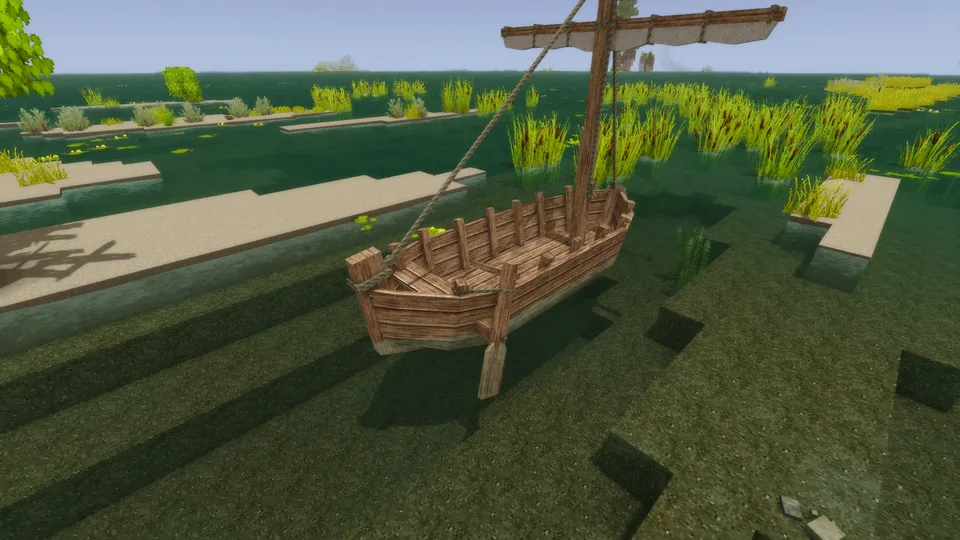
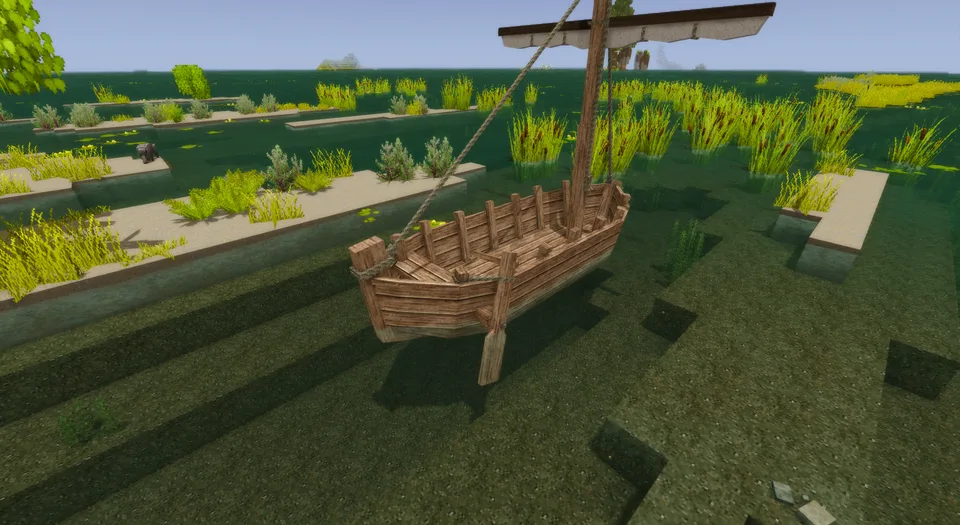
375 fix: the outrigger's and the sailboat's pictures retaken; the sailboat's mast and yard in her windage, yaw damped through the water, a luffing sail's friction, rig textures required
[claude-opus-5-5] on behalf of hoblin

diff --git a/RoughSeas/Wind/Sail.cs b/RoughSeas/Wind/Sail.cs
@@ -11,7 +11,7 @@ public sealed class Sail(SailPolar polar, IncidencePolar aback, Rig rig, double 
 {
     private const int Trims = 36;
     private const int Refinements = 3;
-    private const int Places = 3;
+    private const int TiedWithinDecimals = 3;
 
     // The crew trims anew only when the apparent wind moves this much: a bound on the work, not physics.
     private const double RetrimRadians = Math.PI / 180;
@@ -63,7 +63,7 @@ public sealed class Sail(SailPolar polar, IncidencePolar aback, Rig rig, double 
         }
 
         var (at, force) = rig.End.Aback(State, air) ? TakenAback(air, halfDensity)
-            : luffs ? Luffing()
+            : luffs ? Luffing(air, halfDensity)
             : Drawing(Force(State, air, halfDensity, fromBow), air);
         Load = rig.End.Loads(State, at, force);
         return Load.Points;
@@ -73,8 +73,8 @@ public sealed class Sail(SailPolar polar, IncidencePolar aback, Rig rig, double 
     {
         var force = Force(posed, air, halfDensity, fromBow).Force;
         var newtons = halfDensity * air.Speed * air.Speed * SquareMetres;
-        return (LeeOf(posed) > 0, !rig.End.Aback(posed, air), Math.Round(rig.End.Ahead * force.Along / newtons, Places),
-            -Math.Round(Math.Abs(force.Across) / newtons, Places), Flow(rig.End.Belly(posed), force));
+        return (LeeOf(posed) > 0, !rig.End.Aback(posed, air), Math.Round(rig.End.Ahead * force.Along / newtons, TiedWithinDecimals),
+            -Math.Round(Math.Abs(force.Across) / newtons, TiedWithinDecimals), Flow(rig.End.Belly(posed), force));
     }
 
     private (HullPoint At, HullPoint Force) Pressing(RigState posed, Airflow air, double halfDensity, double fromBow)
@@ -100,10 +100,10 @@ public sealed class Sail(SailPolar polar, IncidencePolar aback, Rig rig, double 
         return (State.Centre(Set, Fill), pushed.Force);
     }
 
-    private (HullPoint At, HullPoint Force) Luffing()
+    private (HullPoint At, HullPoint Force) Luffing(Airflow air, double halfDensity)
     {
         (Aback, Pressure, Fill) = (false, 0, 0);
-        return (State.Centre(Set, 0), default);
+        return (State.Centre(Set, 0), halfDensity * air.Speed * aback.Friction * SquareMetres * new HullPoint(air.Along, 0, air.Across));
     }
 
     private bool Retrim((double Heading, double Pressure, (double Reach, double Span) Set, int Tacked) trim) =>

diff --git a/RoughSeas/Storms/EntityBehaviorCurrentDrift.cs b/RoughSeas/Storms/EntityBehaviorCurrentDrift.cs
@@ -182,7 +182,7 @@ public class EntityBehaviorCurrentDrift(Entity entity) : EntityBehavior(entity)
             : drag != null ? set.Settle(drag, on, pos.Yaw, deltaTime, blown)
             : set.Relax(on, pos.Yaw, 1 - WaterDrag.Kept(physics?.WaterDragValue ?? 1, deltaTime), deltaTime, blown);
         var w = water = new Water(on, drag, wash, wind);
-        if (ours) Spin(wind.NewtonMetres, drag, on.WayAlong, deltaTime);
+        if (ours) Spin(wind.NewtonMetres, drag, on, deltaTime);
 
         if (client == null) Sync(deltaTime);
         else ReportOwn(deltaTime);
@@ -248,12 +248,12 @@ public class EntityBehaviorCurrentDrift(Entity entity) : EntityBehavior(entity)
         set.Pivot(0, 0);
     }
 
-    private void Spin(double newtonMetres, HullDrag? drag, double wayAlong, float deltaTime)
+    private void Spin(double newtonMetres, HullDrag? drag, WaterOnHull on, float deltaTime)
     {
         if (heldAtBow || drag == null || hullBoxes == null || newtonMetres == 0 && spinPerSecond == 0) return;
 
-        var (along, _) = HullShape.ToHull(set.Own.X, set.Own.Z, entity.Pos.Yaw);
-        spinPerSecond += (newtonMetres + drag.Turning(spinPerSecond, wayAlong + along)) / drag.TurningKgSquareMetres * deltaTime;
+        var (along, _) = HullShape.ToHull(set.Own.X - on.CurrentX, set.Own.Z - on.CurrentZ, entity.Pos.Yaw);
+        spinPerSecond += (newtonMetres + drag.Turning(spinPerSecond, on.WayAlong + along)) / drag.TurningKgSquareMetres * deltaTime;
         var turned = (float)GameMath.Mod(entity.Pos.Yaw + spinPerSecond * deltaTime, GameMath.TWOPI);
         if (hullBoxes.AdjustCollisionBoxesToYaw(deltaTime, true, turned)) entity.Pos.Yaw = turned;
         else spinPerSecond = 0;

diff --git a/RoughSeas/Wind/EntityBehaviorWindage.cs b/RoughSeas/Wind/EntityBehaviorWindage.cs
@@ -43,7 +43,8 @@ public class EntityBehaviorWindage(Entity entity) : EntityBehavior(entity), IWin
         body = VesselInWind.From(attributes, wind.Config, wind.Polar);
         drawnGroups = attributes["drawn"].AsArray<string>()?.OfType<string>().ToArray() ?? [];
         steps = attributes["steps"].AsArray<string>()?.OfType<string>().ToArray() ?? [];
-        textures = attributes["textures"].AsObject<RigTextures?>(null);
+        textures = attributes["textures"].AsObject<RigTextures?>(null)
+            ?? (Sail == null ? null : throw new InvalidOperationException($"{entity.Code}'s sail names no rig textures: roughseas:windage needs textures with a sail"));
     }
 
     public override void AfterInitialized(bool onFirstSpawn)

diff --git a/RoughSeas/Wind/RigRenderer.cs b/RoughSeas/Wind/RigRenderer.cs
@@ -15,7 +15,7 @@ public sealed class RigRenderer : IRenderer, IRigCanvas
     private const int Reaches = 10;
     private const int Spans = 8;
     private const double OriginMetres = 0.5;
-    /// <summary>A shunt took under a minute (Hornell 1936, pp. 318, 370); her build's sixtieth of real work time.</summary>
+    /// <summary>A shunt took under a minute (Hornell 1936, pp. 318, 370); her work takes a sixtieth of real time, as her build does.</summary>
     private const double ShuntMilliseconds = 1000;
     private static readonly (float U, float V)[] Tile = [(0, 0), (1, 0), (1, 1), (0, 1)];
     private static readonly (int Facing, int[] Order)[] Sides = [(1, [0, 1, 2, 0, 2, 3]), (-1, [0, 2, 1, 0, 3, 2])];

diff --git a/RoughSeas/Wind/SailForm.cs b/RoughSeas/Wind/SailForm.cs
@@ -2,7 +2,7 @@ namespace RoughSeas.Wind;
 
 /// <summary>
 /// The one shape of a cloth between its four corners: physics asks it for the centre of effort, the renderer for every
-/// vertex. Reach runs from luff to leech, span from foot to head; a reef rolls the cloth down from the foot.
+/// vertex. Reach runs from luff to leech, span from foot to head; a reef rolls the cloth up from the foot onto the boom.
 /// </summary>
 public sealed class SailForm
 {

diff --git a/bin/lib/hulls/sailboat.py b/bin/lib/hulls/sailboat.py
@@ -28,8 +28,8 @@ HALF_CLOTH = re.compile(r"[LR]Sail(Cen|Mid|Out)")
 SHEET = re.compile(r"ClewRope[LR]\d$")
 BUNT = re.compile(r"SailBund")
 BACKSTAY = re.compile(r"MastRope\d$")
-STANDING = re.compile(r"Hull|KeelBeam|Gunwhale|Mast$|MastORIGIN")
-FURLED = re.compile(r"SailFurled|Furl")
+STANDING = re.compile(r"Hull|KeelBeam|Gunwhale|Mast\d$|MastORIGIN")
+FURLED = re.compile(r"SailFurled|Furl|Spar[LR]\d$")
 STEP = 0.5
 
 

diff --git a/RoughSeas/Wind/SailPolar.cs b/RoughSeas/Wind/SailPolar.cs
@@ -59,6 +59,8 @@ public sealed class IncidencePolar : SailPolar
         return (lift * sin - drag * cos, lift * cos + drag * sin);
     }
 
+    public double Friction => trims[0].Drag;
+
     public double Pressing(double incidence)
     {
         var (lift, drag) = LiftAndDrag(Math.Clamp(Math.Abs(incidence), 0, Math.PI / 2));

diff --git a/docs/wiki/The-Science-of-the-Hull.md b/docs/wiki/The-Science-of-the-Hull.md
@@ -40,7 +40,7 @@ The wind pushes a vessel as the water does: one more force in the sum that moves
 - **The wind a sail feels is apparent:** the wind at its height less the vessel's own velocity over the ground. A canoe running at 3 m/s before a 9 m/s wind feels 6 m/s; reaching across it, the apparent wind swings ahead and grows.
 - **Windage.** What stands above the water, hull and furled rig, is a bluff body (with the sail set, less the spars and cloth the sail now carries): drag ½ ρ C_d A u |u| across its side area and along its front area, at their centre, with air at 1.225 kg/m³ (the International Standard Atmosphere at 15 °C) and C_d 1.28, a flat plate across the wind (NASA Glenn). It only pushes downwind.
 - **A set sail is a wing.** Its force is ½ ρ V_a² S times a drive coefficient along the hull and a side coefficient across it, S its area and V_a the apparent wind, both coefficients read at the angle the apparent wind comes from, the sail trimmed to that angle. The windage of the hull and rig pushes on beside it.
-  - **The crab claw** takes Marchaj's wind-tunnel tests of a Polynesian crab claw, heeled 10° at 18 knots (AYRS 111, *Rig Efficiency*, Fig. 23, checked against the total force of Fig. 6): drive 1.46 and side 0.87 with the wind abeam, side force highest at 50° (1.48), drive highest at 120° to 130° (1.58), the force leaning to windward past 120°. Below 20° it luffs and lifts nothing, and the windage pushes again. Marchaj found it "only average closehauled, but outstanding when the apparent wind is between 50° and 150°".
+  - **The crab claw** takes Marchaj's wind-tunnel tests of a Polynesian crab claw, heeled 10° at 18 knots (AYRS 111, *Rig Efficiency*, Fig. 23, checked against the total force of Fig. 6): drive 1.46 and side 0.87 with the wind abeam, side force highest at 50° (1.48), drive highest at 120° to 130° (1.58), the force leaning to windward past 120°. Below 20° it luffs and lifts nothing; flogging, it keeps the drag the square sail measured edge-on, 0.15 along the wind. Marchaj found it "only average closehauled, but outstanding when the apparent wind is between 50° and 150°".
   - **The square sail** takes Nomoto's tunnel tests of a single square sail, as Palmer redraws them (*Windward Sailing Capabilities of Ancient Vessels*, IJNA 38(2), 2009, Fig. 10): lift C_L and drag C_D over its trims, from 0.69 and 0.25 to 0 and 1.14; its first trims match the same sail's tunnel data of Masuyama, Nomoto et al. (MARSIM 2003, Fig. 13). Cloth carries pressure only normal to itself, plus friction along the wind, so each pair stands at the incidence α = atan((C_D − 0.15) / C_L), 8° to 90°, where 0.15 is the friction drag Masuyama et al. add to the pressure forces to meet the tunnel's. Edge-on to the wind the sail keeps its friction alone. At each heading β the yard is braced to the turn its stays allow that drives most, C_L sin β − C_D cos β, with C_L cos β + C_D sin β across, both read at the incidence that turn gives. So close-hauled, with the yard braced as far round as it goes, the sail draws only what that incidence gives.
   - **Taken aback**, the wind on its wrong face, a sail is pressed along its normal n by ½ ρ V_a² S C_N, C_N the pressure the square sail's measurements give at the incidence the wind meets that face, √(C_L² + (C_D − 0.15)²): the only soft sail measured over its incidences, and the closest analogue for any sail aback. On the same sail caught aback head to wind it gives about −1.0 of thrust, where Masuyama et al. measured about −0.9 (Fig. 15). The crab claw is aback when the wind comes over its lee side and presses it onto the mast; the square sail when the wind strikes its fore face at every turn its stays allow, as head to wind.
 - **The sail's shape** is one function of where it is held, how much is set, its camber and how full the wind blows it, which the physics reads for its centre of effort and the game draws, every point of the cloth, in the vessel's own frame. Its depth is 12% of its chord when full, as Marchaj's tunnel sails were cut, a parabola across it. It fills as the wind's pressure p outweighs its cloth: depth p / (p + w g), the cloth w 0.61 kg/m², as experimental flax sails weigh 500 to 720 g/m² (Propylaeum, Heidelberg). With the wind abeam, the outrigger's sail stands two fifths full at 2 m/s of apparent wind and nearly full at 6 m/s.

diff --git a/docs/wiki/The-Science-of-a-Body-in-the-Water.md b/docs/wiki/The-Science-of-a-Body-in-the-Water.md
@@ -10,7 +10,7 @@ A hull moves by the sum of the forces on it, over its mass and the water it drag
 (m + A) dr/dt = −(m + A) (s·∇)u − D(s) + D(w) + T + F_wind
 ```
 
-`−(s·∇)u` is the difference between the water's acceleration and the change of `u` along the hull's own path: nothing for a hull lying with the water, and on a wave's front face, where the water ahead runs slower than behind, a push down the face for a hull running with the wave. Near the wave's speed, `s ≈ c`, it is `−c ∂u/∂x = ∂u/∂t`, which in shallow water is `−g ∂η/∂x`: gravity along the face, the force that carries a surfer. `D` is the hull's drag on its velocity through the water ([Driving it](#driving-it)), less `D(w)`, what its own way meets and its rower already pays; `T` a line's tension; `F_wind` the wind's load on what stands above the water and on a set sail ([under sail](The-Science-of-the-Hull#under-sail)). The current's pull is in `D` too, since the hull's velocity through the water counts it. Nothing is written for surf-riding: a hull held on a face near the wave's speed, where the push balances the drag, is carried toward the shore, and a slow hull lets the face pass under it. On the bench a sailboat running at 7 m/s through the water, under vanilla's sail before the wind drove it, before a gale's 5.6 m swell onto a 1:8 beach was pushed on at up to 1.5 m/s² and went from 6.4 to 10.5 m/s over the ground on a face; a canoe paddled at 2.2 m/s let the faces pass.
+`−(s·∇)u` is the difference between the water's acceleration and the change of `u` along the hull's own path: nothing for a hull lying with the water, and on a wave's front face, where the water ahead runs slower than behind, a push down the face for a hull running with the wave. Near the wave's speed, `s ≈ c`, it is `−c ∂u/∂x = ∂u/∂t`, which in shallow water is `−g ∂η/∂x`: gravity along the face, the force that carries a surfer. `D` is the hull's drag on its velocity through the water ([Driving it](#driving-it)), less `D(w)`, what its own way meets and its rower already pays; `T` a line's tension; `F_wind` the wind's load on what stands above the water and on a set sail ([under sail](The-Science-of-the-Hull#under-sail)). The current's pull is in `D` too, since the hull's velocity through the water counts it. Nothing is written for surf-riding: a hull held on a face near the wave's speed, where the push balances the drag, is carried toward the shore, and a slow hull lets the face pass under it. On the bench a sailboat running at 7 m/s through the water (measured under vanilla's sail, before sailing by the wind) ahead of a gale's 5.6 m swell onto a 1:8 beach was pushed on at up to 1.5 m/s² and went from 6.4 to 10.5 m/s over the ground on a face; a canoe paddled at 2.2 m/s let the faces pass.
 
 The hull reads `u` where it is each step, so lying with the water it moves with it as a body in the water does, and each wave carries it a little further forward than back: the Stokes drift, `a^2 ω k` for a small body at the surface (Stokes 1847). Averaging over a hull makes a large one drift slower than a small one. Calvert et al. (2021, JFM 915:A73) measured the opposite effect as well, from a variable submergence that lags the surface; it isn't modelled, because its size hangs on a heave damping we haven't measured.
 

diff --git a/docs/wiki/For-Modders.md b/docs/wiki/For-Modders.md
@@ -493,7 +493,7 @@ A hull moves by the sum of the forces on it, the waves' among them, so one runni
 - `IDrawnSea` gained `HullGradientAt(x, z, lift, draft, yaw, length, beam)`, a `FlowGradient` ([Reading it](Reading-the-Sea#reading-it)); `SeaSurface` has it too. A class of yours that implements `IDrawnSea` has to add it.
 - The waves no longer move a hull from a postfix on `EntityBoat.updateBoatAngleAndMotion`: `WaveCarry` is gone, and `roughseas:currentdrift` moves the hull by the current, the waves and its lines in one step. `WaveRide.Carry` became `WaveRide.Water`, which reads the waves under the hull as a `WaterOnHull`; `WaveRide.WaterAcceleration` and `EntityBehaviorSeaForces.Driven` are gone. `HullRider` gained `Gradient`.
 - `HullSet` holds the hull's velocity beside the waves' water, `Own`, which forces change: `Add` adds a velocity to it, `Settle(drag, water, yaw, seconds)` and `Relax(water, yaw, share, seconds)` move the hull by the water and return the water's acceleration of it besides its drag, and `Pushed` is the waves' last push. `HullSet` and `FloatingBody` both derive from the new `BodyInWater`, which holds `Velocity`, `Own` and `Pushed`. `Hold`, `Slow` and `PivotMotion` are gone, and `Pull` and `Swing` take a `WaterOnHull`. The watched tree `roughseas:set` carries `Own`, without the waves' water. `EntityBehaviorCurrentDrift` lost `Held`, `PivotMotion`, `Hold` and `Slow`, and gained `Load`, `Velocity` and `Impulse` (in newton-seconds). While a hull is steered, its rider's client sends the server its `Own` (`HullSetReport`, taken by `EntityBehaviorCurrentDrift.Reported` and `HullSet.Reported`). `EntityBehaviorCurrentDrift.Pull` is now the drag beyond what the hull's own way meets. `HullDrag.Pull` takes the hull's own way along it, and `Settle` that way and a push; new `Newtons`, `Acceleration` and `KilogramsToward`.
-- `roughseas:mooring` holds by its lines' tension, a force on the hull: `MooringLine.Over` (now `RoughSeas.Lines.Line.Over`) solves a line over a tick and replaces `Tension`, and `MooringLine.Dragging` (now `Anchor.Dragging`) is an anchor sliding at its holding. Nothing of the mooring runs on the physics thread any more (`EntityBehaviorMooring.Restrain` is gone).
+- `roughseas:mooring` holds by its lines' tension, a force on the hull: `MooringLine.Over` solves a line over a tick and replaces `Tension`, and `MooringLine.Dragging` is an anchor sliding at its holding. Nothing of the mooring runs on the physics thread any more (`EntityBehaviorMooring.Restrain` is gone).
 - `VanillaSwim.Realized` and `Commanded` are gone. A rowed boat moves on its rower's client, where vanilla's swim drag never acts, so its `ForwardSpeed` is its way; a hull's way through the water is `HullSet.Way`, measured from vanilla's moves.
 - A swimmer's stroke is ours: `BodyAfloat` takes back the motion `PModulePlayerInLiquid.HandleSwimming` adds for a player afloat, on the client that moves them, and strokes by `SwimStroke` from the controls; `BodyUnderSurface` no longer transpiles it. `config/person.json`'s `body` gained `strokeNewtons` and `dragAreaSwimming`. `FloatingBody.Step` takes the stroke and the current, which now carries a swimmer, by the `oceanCurrents` setting.
 

diff --git a/docs/qa.md b/docs/qa.md
@@ -46,7 +46,7 @@ Each scene: what the player should see, then its setup.
 16. **Sailing by the wind.** `bin/qa as '/time set 12:00' '/bridge force 4' '/seas here'`: a moderate breeze over open sea, and where it blows from. Then each vessel with a sail in turn, `'/bridge ride roughseas:outrigger-oak' '/gamemode survival'` and `'/bridge ride boat-sailed-oak' '/gamemode survival'`, cleaning up between them. Right-click the halyard cleat twice for full sail (the outrigger's at the foot of her mast, the sailboat's on the side of hers), and steer with A and D, whatever is in hand.
    - **A reach.** Put the wind abeam: she gathers way to about a third of the wind's speed and holds it, and the sail fills to leeward and heaves with her hull on the swell, never left hanging where it was.
    - **Bearing away and coming up.** Turn her until the wind is astern: the sail swings out across her and she runs on. Turn her back up toward the wind: she slows, the sail spills its wind, and head to wind she stops and the wind pushes her astern.
-   - **The outrigger's shunt.** With the wind over her float the sail stands to leeward of her mast and draws. Turn her until the wind comes over her other side: the sail is taken aback and drives nothing. Right-click the sail step at her far end: within a second the sail's foot, the mast's rake and the stays go to that end, and she sails toward it with her float to windward again.
+   - **The outrigger's shunt.** With the wind over her float the sail stands to leeward of her mast and draws. Turn her until the wind comes over her other side: the sail is taken aback and drives nothing; turn her back. Then, on a reach with the wind over her float, right-click the sail step at her far end: within a second the sail's foot, the mast's rake and the stays go to that end, and she sails toward it, the way she came, her float still to windward.
    - **The sailboat's yard** turns about her mast with the wind, no further than her stays let it, and her sail is drawn with her hull as she pitches.
    - Lower the sail: the outrigger paddles again with a paddle in hand. A shunt logs a `[wind]` line on the server (`bin/qa log`); while she is sailed, the player's `client-debug.log` gets one every five seconds: the wind, her sail's force and the tension in her sheet, halyard and stays.
 17. **Old saves' containers.** In a world saved with the previous release, fit each vessel's container slots with the largest container they take (a basket on the dugout, outrigger, bark canoe and reed boat; three chests on the currach), fill them, and an oar to each. Load the world with this build: each container's contents and then the container itself lie in the vessel's holds, extra slots holding what didn't fit, every oar in its slot, the reed boat's basket where it was, nothing lost. Take the whole stack from an extra slot, put it back, take it again and close the hold: no error, and on reopening the emptied slot is gone.

diff --git a/docs/wiki/Building-a-Vessel.md b/docs/wiki/Building-a-Vessel.md
@@ -179,7 +179,7 @@ A tool is an item whose attributes carry `roughseas:propulsion`: `tool` is `pole
 | `rig` | | none | how the sail is held: `kind`, `crabclaw` or `square`, with the points below in metres from the point the entity stands at, `[along, height, across]`, and the thickness each part is drawn at: `sparMetres`, `poleMetres`, `shoreMetres`, `lineMetres`, `rollMetres` (the furled or reefed cloth) |
 | `drawn` | shape groups | none | the groups the renderer draws in place of once the vessel is built: our outrigger's `Mast`, `SailFurled` and `Stays` |
 | `steps` | selection boxes | none | a crab claw's sail steps, one for each of its `ends` in order |
-| `textures` | texture codes | none | the shape's textures the renderer draws with: `cloth`, `wood` and `cord` |
+| `textures` | texture codes | required with a `sail` | the shape's textures the renderer draws with: `cloth`, `wood` and `cord` |
 
 A crab claw's `rig` gives `ends`, one for each end its tack can stand at, the first at the bow; each has a `hoisted` and a `lowered` pose, the spars set and let down, of the points `tack`, `masthead`, `heel` (the mast's foot), `halyardBend` (where the halyard holds the yard), `peak` (the yard's head), `clew` (the boom's end), `bridle` (where the sheet holds the boom), `lead` (where the sheet comes to the hull), `sternPin` (the far end, where the backstay is made fast), `shroudFoot`, `shoreTop` and `shoreFoot`, each with `Metres` after its name; and `yardKilograms` and `boomKilograms`, what its spars weigh. A square `rig` gives `mastHeel`, `masthead`, `yardPort` and `yardStarboard`, the cloth's corners `headPort`, `headStarboard`, `clewPort` and `clewStarboard`, the sheets' `leadPort` and `leadStarboard`, and the stays' `forestayHead`, `forestayFoot`, `backstayHead` and `backstayFoot`, each with `Metres`: its yard turns about its mast as far as its stays let it.
 
